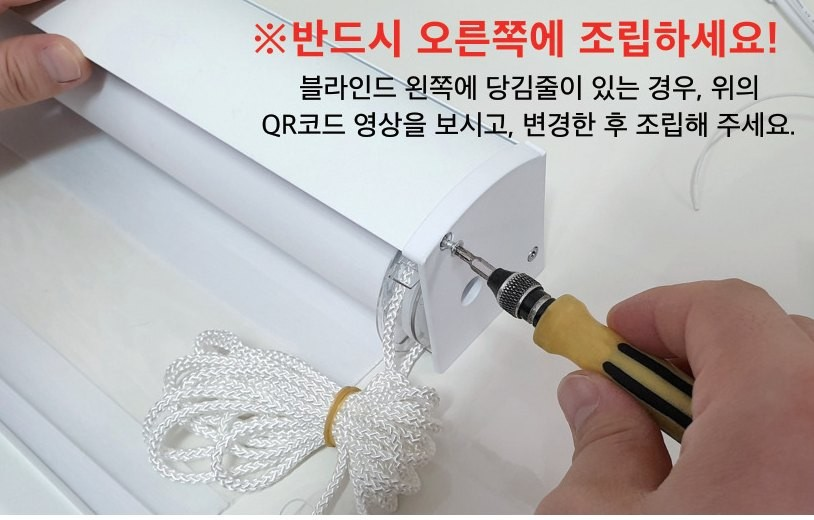
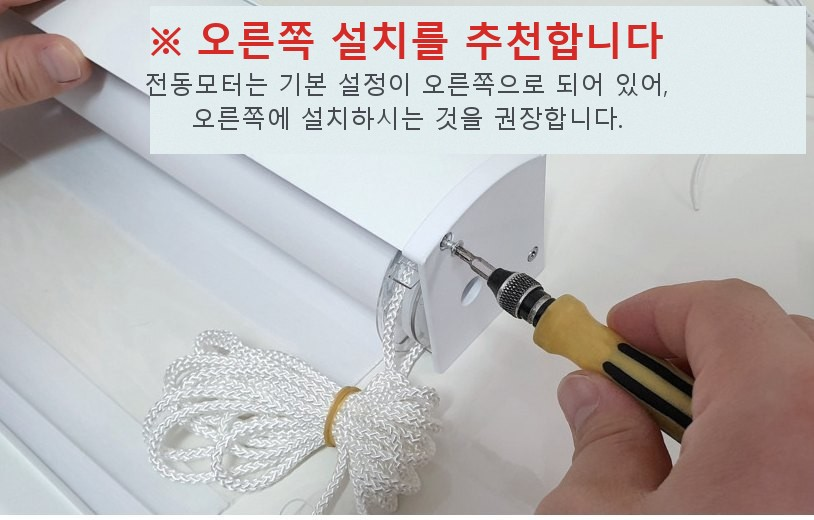
docs: 홈 히어로 버튼 간격 + step1 이미지 문구(오른쪽 설치 권장) 교체

Changed region(s): [[0.1843, 0.0, 1.0, 0.3077]]

diff --git a/docs/stylesheets/extra.css b/docs/stylesheets/extra.css
@@ -52,6 +52,8 @@ body { letter-spacing: -0.01em; }
   .md-content__inner { margin: 0 0.7rem 1.2rem; }
   /* 터치 영역: 목록 링크·버튼 넉넉하게 */
   .md-typeset .md-button { display: block; text-align: center; padding: 0.8em 1.4em; }
+  /* 홈 히어로: 세로로 쌓인 버튼 사이 간격 */
+  .er-hero .md-button { margin: 0.45rem 0; }
   .md-nav__link { padding: 0.5rem 0; }
 }
 
